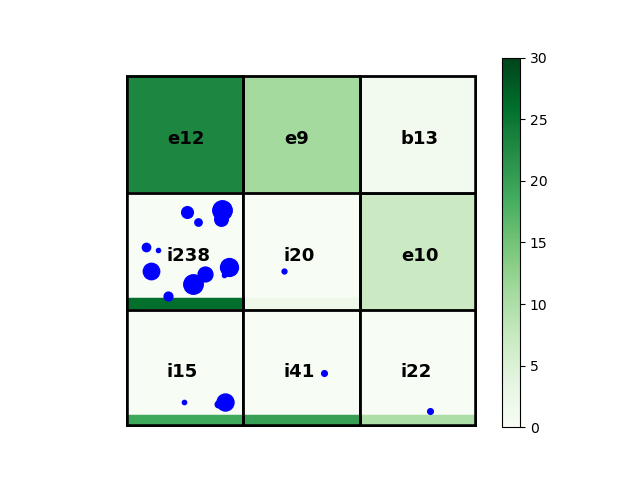
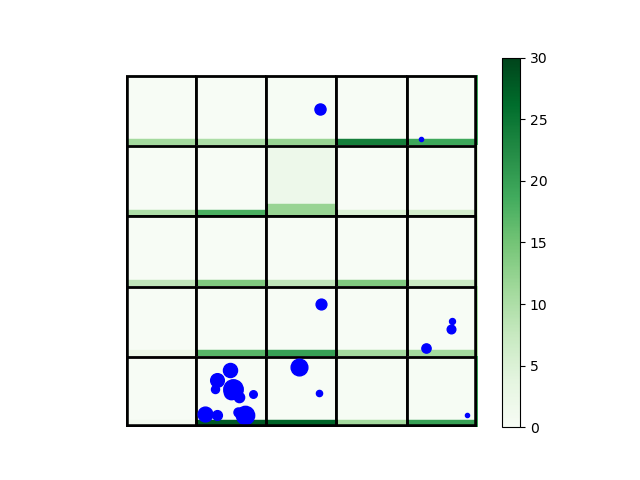
take out phase changes

Changed region(s): [[0.1875, 0.1562, 0.75, 0.9062]]

diff --git a/classCell.py b/classCell.py
@@ -1,13 +1,10 @@
 import numpy as np
-from phase import *
 import math
 
 class Cell():
     def __init__(self, payoff, location):
         self.payoff = payoff
         self.location = location
-        self.hidden = True
-        self.phase = Phase.experimental
         self.numHits = 0
         self.lowerx, self.upperx, self.yList = self.logiFunc(15, 10)
         self.stepSize, self.slopeVals = self.setStepSize(10, 0.5)
@@ -39,6 +36,10 @@ class Cell():
                     highSuccess = True
             
             xmax = min(upperx)
+            #finds the y value (proportion) at given x in the logistic function
+            self.incHit = float(1/(1 + math.pow(math.e, -steepness*(xmax-center))))
+            self.breakHit = float(1/(1 + math.pow(math.e, -steepness*(lowerx-center))))
+
             #Goal: to get from x=0 to x=xmax in ksteps
             # - Chop interval into N pieces
             yList = []
@@ -52,9 +53,6 @@ class Cell():
         slopeVals = {}
         # - for Scientist at time i, flip coin (with probability p) D times (number of microsteps)
         stepSize = np.random.binomial(D*2, p, size=None)
-
-        print("location: ", self.location)
-        print("stepSize: ", stepSize)
 
         #putting the slopes in a dictionary
         prevY = 0
@@ -75,16 +73,8 @@ class Cell():
         sciPayoff = 0.0
         self.setStepSize(10, 0.5)
 
-        if self.numHits > self.upperx:
-            self.phase = Phase.incremental
-        elif self.numHits > self.lowerx:
-            self.phase = Phase.breakthrough
-            self.hidden = False
-            # "discover" the cell once it hits breakthrough phase
-            if self.location not in board.discovered:
-                board.discovered.append(self.location)
-                board.undiscovered.remove(self.location)
-        if self.phase == Phase.incremental:
+        originalPay = board.originalPays[self.location[1]][self.location[0]]
+        if self.payoff/originalPay >= self.incHit-1:
             frac = np.random.random()
         else:
             frac = self.slopeVals[self.numHits]

diff --git a/classBoard.py b/classBoard.py
@@ -1,7 +1,6 @@
 import matplotlib.pyplot as plt
 import matplotlib.patches as patches
 import numpy as np
-from phase import *
 from classCell import *
 
 class Board():
@@ -24,8 +23,6 @@ class Board():
 
         # board has random payoff values in each cell
         self.board = [[Cell(np.random.choice(self.randomRange), (i, j)) for j in range(self.cols)] for i in range(self.rows)]
-        self.discovered = []
-        self.undiscovered = [self.board[i][j].location for j in range(self.cols) for i in range(self.rows)]
         self.originalPays = self.getPayoffs()
         self.totalPayoff = sum(self.flatten(self.originalPays))
 
@@ -36,6 +33,7 @@ class Board():
     def getPayoffs(self):
         """returns the payoff value for each cell of the board in a way that 
         makes it easier to get a heatmap from a 2D matrix of data"""
+        # note that the x and y coordinates were flipped to make the heatmap
         return [[self.board[i][j].payoff for i in range(self.cols)] for j in range(self.rows)]
 
     def flatten(self, matrix):
@@ -98,8 +96,6 @@ class Board():
                 # annotating cells (phase, numHits)
                 # (ex: B5 means breakthrough phase, hit 5 times)
                 # add this for debugging payoffs: {f'{cell.payoff:.1f}'}
-                plt.annotate(f"{cell.phase.name[0]}{cell.numHits}", xy = (i, j), xytext=(i-0.15, j+0.075),
-                    fontsize=13, fontweight='bold')
                 gridlines = patches.Rectangle((i-0.5,j-0.5),
                                 1, 1,
                                 fill=False,

diff --git a/Run.py b/Run.py
@@ -54,8 +54,6 @@ def batchRun(board, numScientists, numRuns):
     currTotal = sum(board.flatten(board.getPayoffs()))
     print()
     print("Percentage of total payoff discovered: ", f"{((board.totalPayoff - currTotal)/board.totalPayoff)*100:.2f}")
-    print("Percentage of cells discovered (that entered into breakthrough phase): ",
-            f"{(len(board.discovered)/len(board.flatten(board.board)))*100:.2f}")
     print()
 
     #animating plots
@@ -65,5 +63,5 @@ def batchRun(board, numScientists, numRuns):
             save_all=True, duration=500, loop=1)
     return
 
-board = Board(3, 3, 0)
+board = Board(5, 5, 0)
 batchRun(board, 20, 20)
